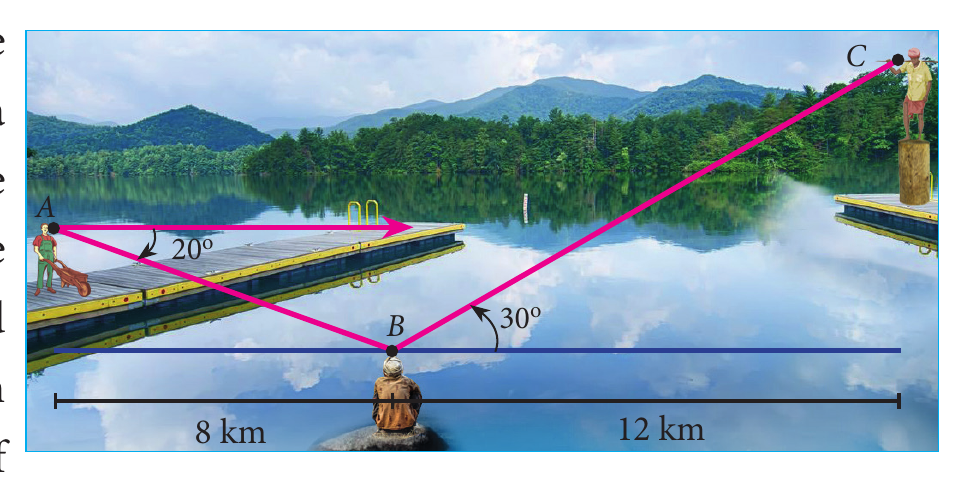
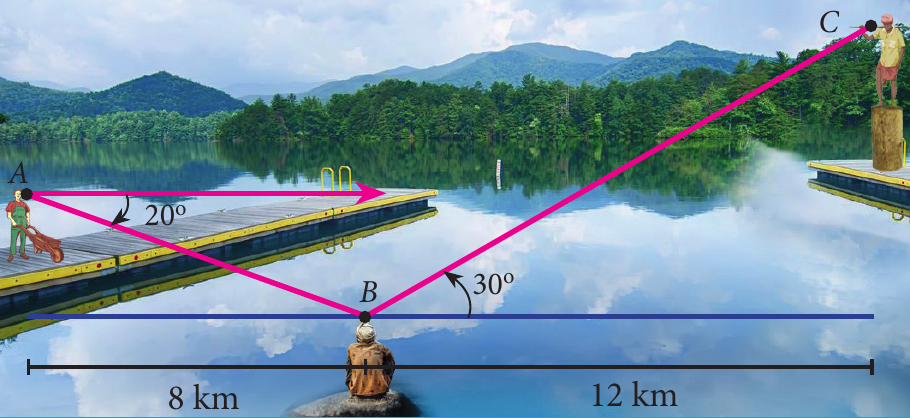
Except 4

diff --git a/content.ta/docs/mensuration/_index.md b/content.ta/docs/mensuration/_index.md
@@ -34,7 +34,7 @@ summary: "எகிப்தில் அலெக்ஸ்சாண்ட்ர
 
 நேர்வட்ட உருளை, கூம்பு, ஆரங்கள், அச்சுகள் போன்ற திண்ம வடிவங்களைப் பற்றி பாப்பஸ் விளக்குகிறார். இயற்கையும் நவீன தொழில்நுட்பமும் மேலும் கணித வடிவங்களைப் பற்றி பயன்படுத்துகின்றன.
 
-![பாப்பஸ் 290–350 கிபி (பொ.ஆ)](assets/image-7-pappus.png)
+![பாப்பஸ் 290–350 கிபி (பொ.ஆ)](assets/page_001_picture_008.png)
 
 ---
 
@@ -90,7 +90,7 @@ summary: "எகிப்தில் அலெக்ஸ்சாண்ட்ர
 
 (iii) அடிச்சுற்றளவு $l$ மற்றும் உயரம் $b$ உடைய ஒரு நேர்வட்ட உருளை கிடைக்கிறது
 
-![படம் 7.5](assets/image-7-5.png)
+![படம் 7.5](assets/page_002_picture_007.png)
 
 **நேர்வட்ட உருளையின் புறப்பரப்பு (Surface Area of a Right Circular Cylinder)**
 
@@ -229,7 +229,7 @@ $$\text{எனவே, தேவைப்படும் வர்ணம்} = \d
 
 கொடுக்கப்பட்ட உருவங்கள் ஒரு கூம்பின் வடிவத்தை ஒத்துள்ளன.
 
-![படம் 7.9](assets/image-7-9.png)
+![படம் 7.9](assets/page_005_picture_005.png)
 
 > **வரையறை** : செங்கோணத்தைத் தாங்கும் ஏதேனும் ஒரு பக்கத்தை மைய அச்சாகக் கொண்டு செங்கோண முக்கோணத்தை முழுச்சுற்று சுழற்றும்போது உண்டாகும் திண்ம உருவம் நேர்வட்டக் கூம்பு எனப்படும்.
 

diff --git a/content.en/docs/mensuration/_index.md b/content.en/docs/mensuration/_index.md
@@ -41,7 +41,7 @@ He described the principles of levers, pulleys, wedges, axles and screws. These 
 
 <center>
 
-![Pappus 290 - 350 AD(CE)](assets/image-7-pappus.png)
+![Pappus 290 - 350 AD(CE)](assets/page_001_picture_008.png)
 
 </center>
 
@@ -99,7 +99,7 @@ A solid cylinder is an object bounded by two circular plane surfaces and a curve
 
 (iii) The shape thus formed will be a right circular cylinder whose circumference of the base is $l$ and the height is $b$.
 
-![Fig. 7.5](assets/image-7-5.png)
+![Fig. 7.5](assets/page_002_picture_007.png)
 
 **Surface Area of a Right Circular Cylinder**
 
@@ -232,7 +232,7 @@ Observe the given figures in Fig.7.9 and identify which solid shape they represe
 
 These objects resemble the shape of a cone.
 
-![Fig. 7.9](assets/image-7-9.png)
+![Fig. 7.9](assets/page_005_picture_005.png)
 
 > **Definition**
 >

diff --git a/content.en/docs/trigonometry/_index.md b/content.en/docs/trigonometry/_index.md
@@ -1051,7 +1051,7 @@ Let $W$ be the point on the window where the angles of elevation and depression 
 
 Then $WA$ is the width of the street.
 
-![Fig. 6.29](assets/image-6-29.png)
+![Fig. 6.29](assets/page_026_picture_004.png)
 
 Height of the window $= h$ metres $= AQ$ $(WR = AQ)$
 
